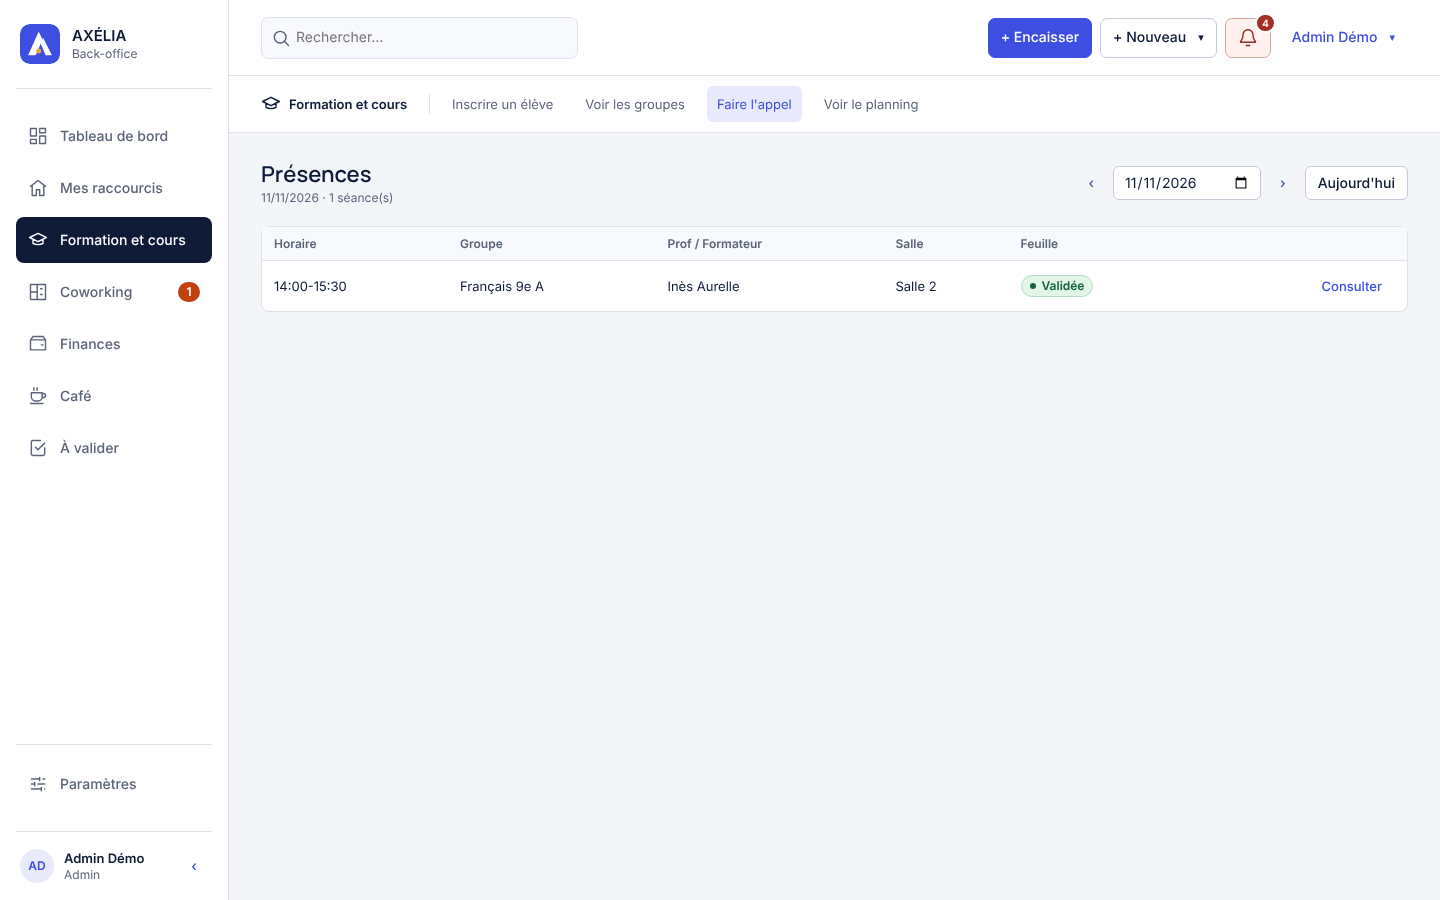
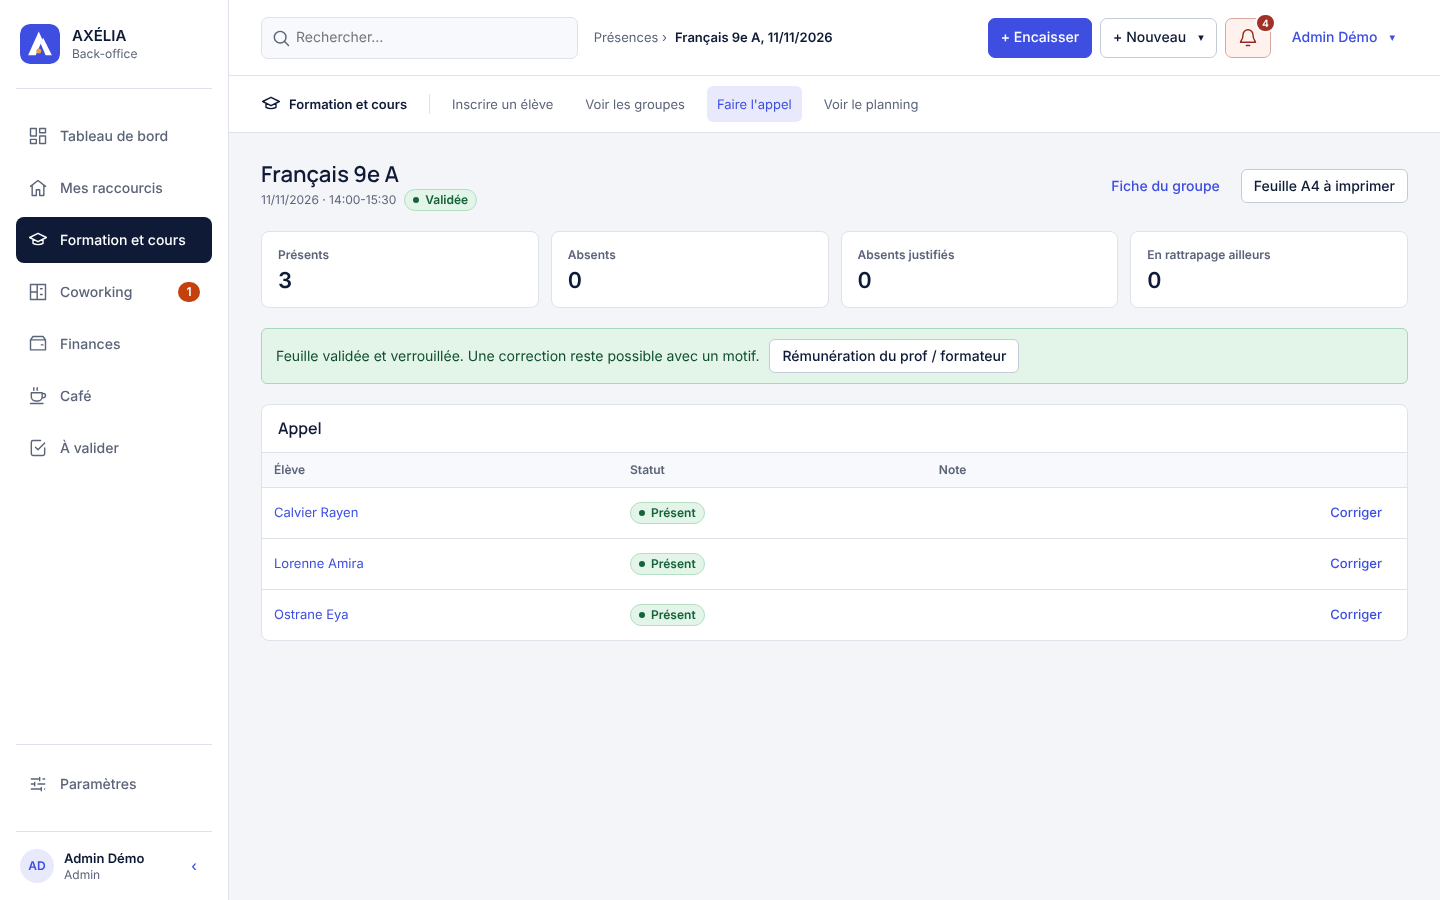
Show a real attendance sheet and add the shortcuts screen to the screenshot reel

diff --git a/src/content/en.ts b/src/content/en.ts
@@ -65,6 +65,7 @@ export const en: Dict = {
       { img: 'coworking.png', t: 'Spaces' },
       { img: 'presences.png', t: 'Attendance' },
       { img: 'paie.png', t: 'Pay' },
+      { img: 'raccourcis.png', t: 'Shortcuts' },
     ],
   },
   universe: {

diff --git a/src/content/fr.ts b/src/content/fr.ts
@@ -64,6 +64,7 @@ export const fr = {
       { img: 'coworking.png', t: 'Espaces' },
       { img: 'presences.png', t: 'Présences' },
       { img: 'paie.png', t: 'Paie' },
+      { img: 'raccourcis.png', t: 'Raccourcis' },
     ],
   },
   universe: {
